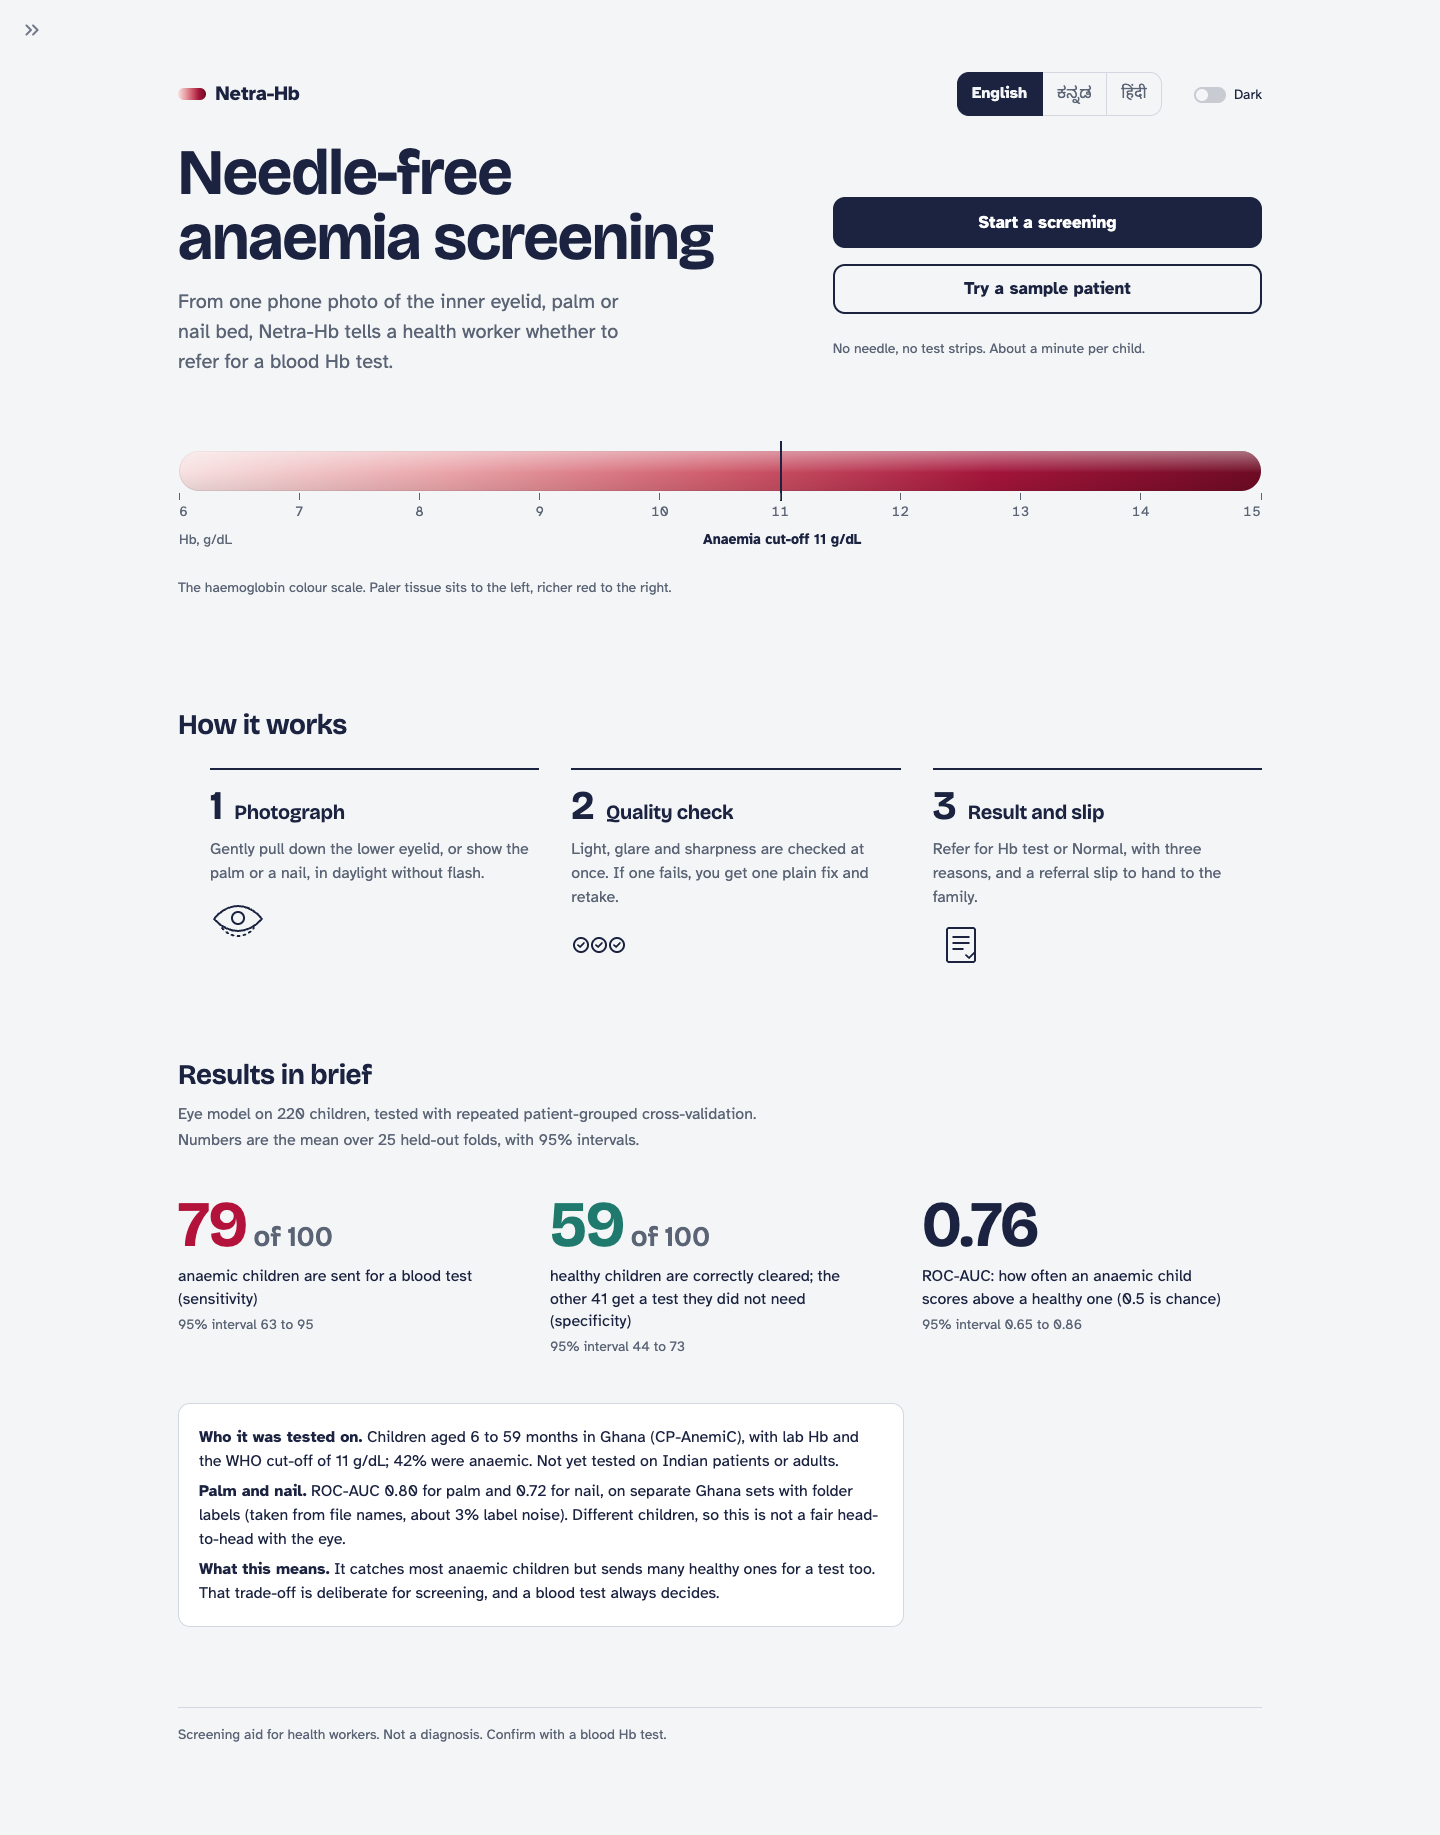
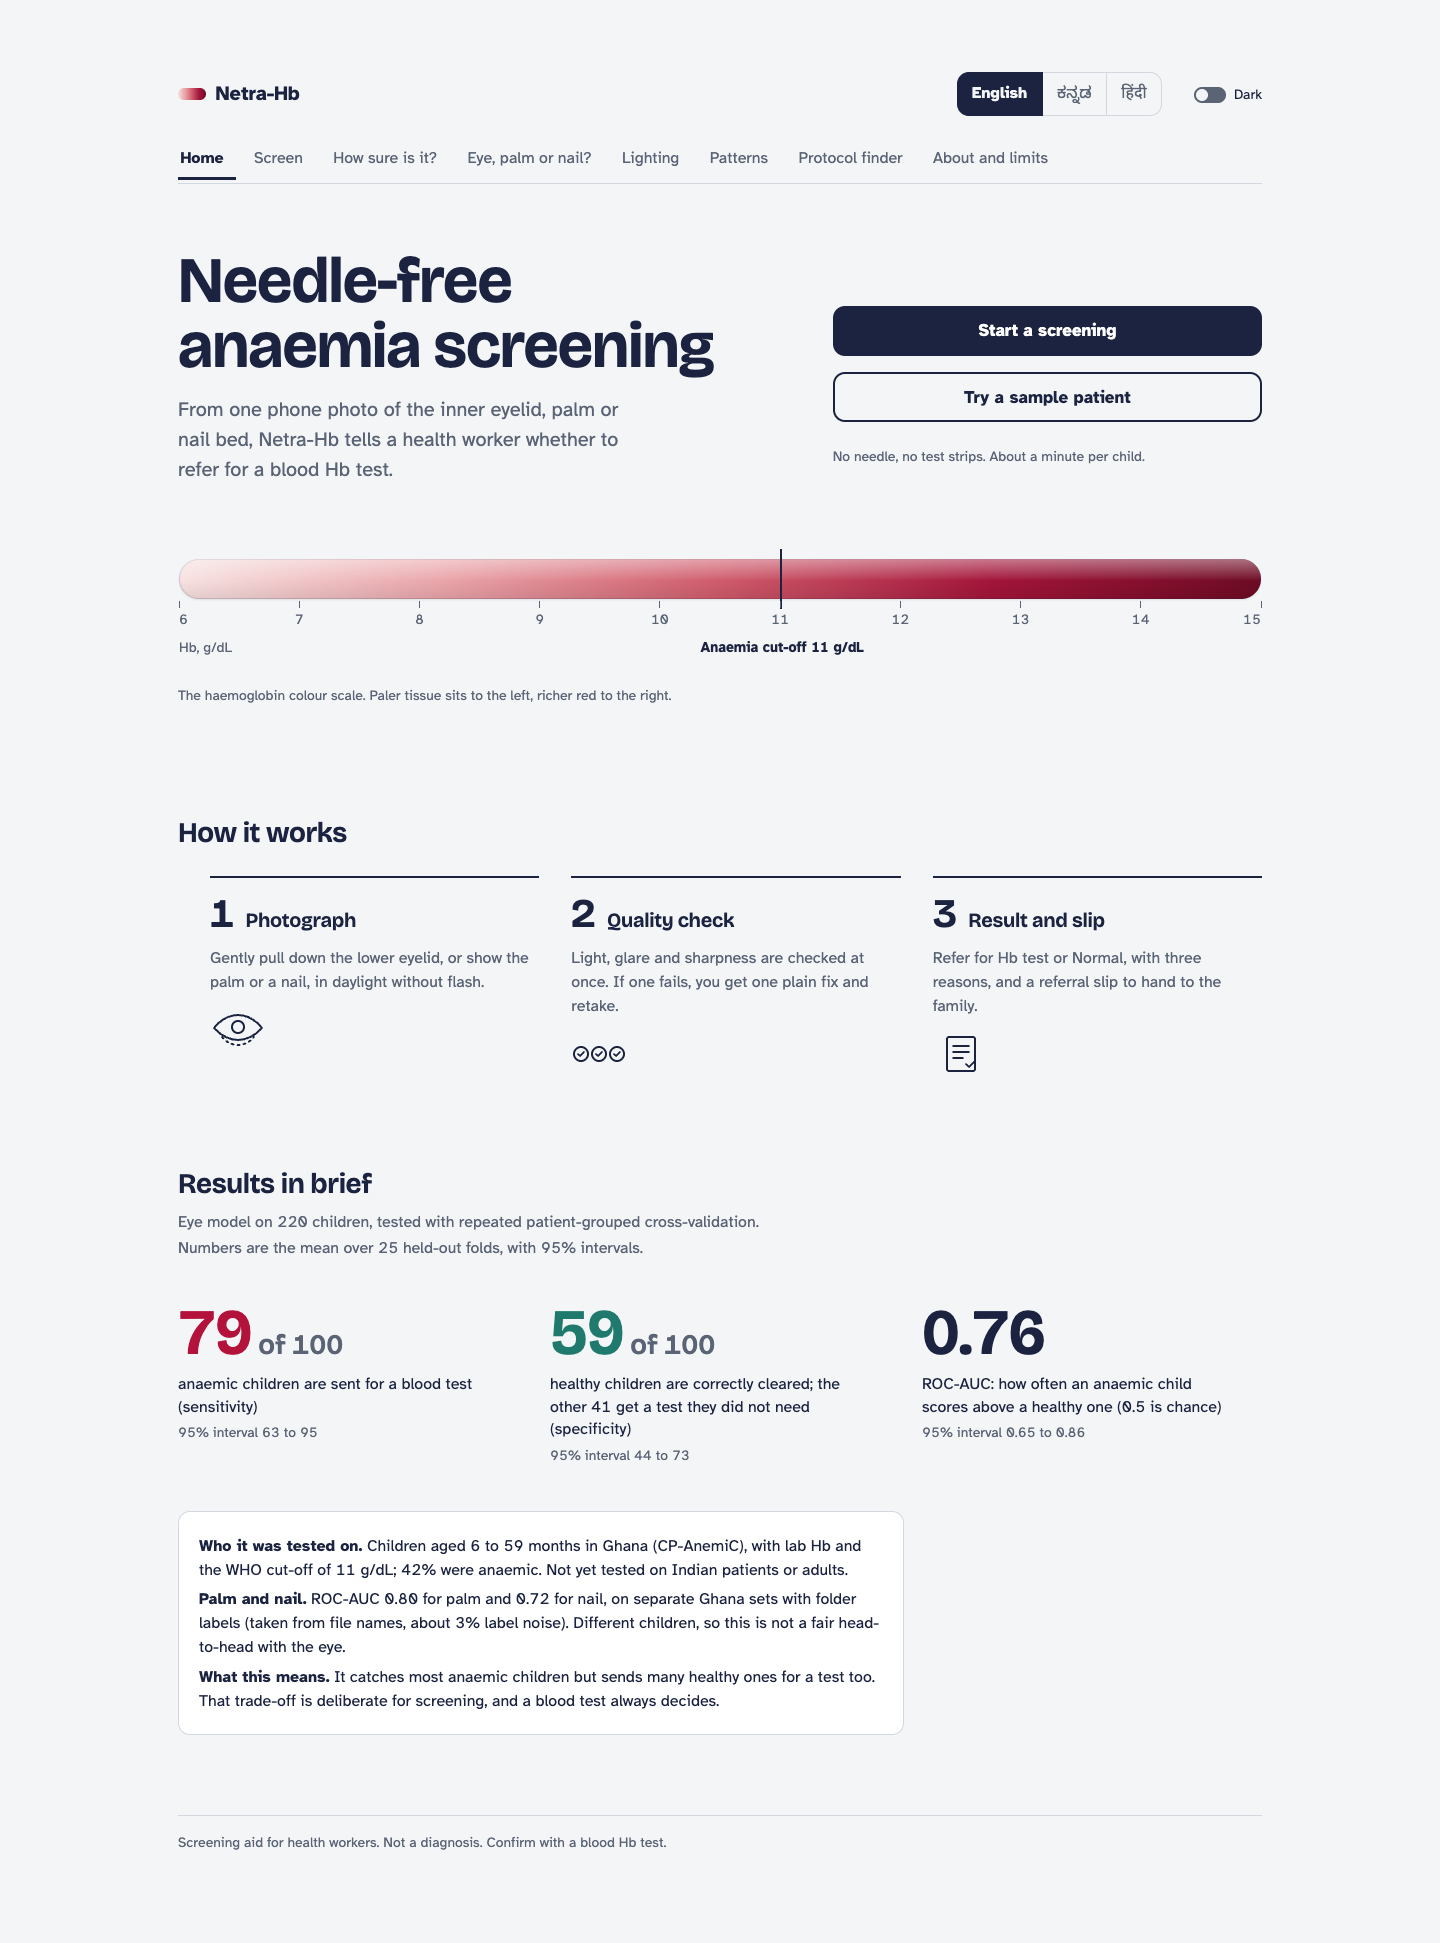
P10a UI review fixes: top nav, no sidebar, light default
- Slim top nav bar with the spec's page names (ui.PAGES), current page underlined;
  Streamlit sidebar, collapse control and default navigation hidden
- Stub pages for the remaining spec pages so every nav link works
- Light mode is the default; toggle track and strip edge contrast fixed
- tabular-nums everywhere, codeFont set to Atkinson so nothing falls back to monospace

diff --git a/app/style.css b/app/style.css
@@ -54,7 +54,11 @@ html, body, .stApp, [data-testid="stAppViewContainer"] {
   background: var(--bg);
   color: var(--text);
   font-family: var(--font-body);
+  font-variant-numeric: tabular-nums;
 }
+
+/* No monospace anywhere */
+.stApp code, .stApp pre, .stApp kbd, .stApp samp, .stApp tt { font-family: var(--font-body) !important; }
 
 .stApp p, .stApp li, .stApp label, .stApp button {
   font-family: var(--font-body);
@@ -144,12 +148,41 @@ button:focus-visible, a:focus-visible, input:focus-visible {
   font-weight: 700;
 }
 [data-testid="stCheckbox"] label, .stToggle label { min-height: 44px; align-items: center; }
+/* Toggle track: slate when off, ink (or light text in dark mode) when on; both clear 3:1 against the page */
+.stApp [data-testid="stCheckbox"] label > div:not([data-testid]) { background: var(--muted) !important; }
+.stApp [data-testid="stCheckbox"] label > div:not([data-testid]) > div { background: var(--bg) !important; }
+.stApp [data-testid="stCheckbox"] label:has(input:checked) > div:not([data-testid]) { background: var(--text) !important; }
 .stApp [data-testid="stWidgetLabel"] p, .stApp label p { color: var(--text); }
 
-/* Sidebar */
-[data-testid="stSidebar"] { background: color-mix(in srgb, var(--bg) 92%, var(--text)); }
-[data-testid="stSidebarNav"] a { min-height: 44px; }
-[data-testid="stSidebarNav"] span { color: var(--text); }
+/* No Streamlit sidebar: navigation is the top nav bar and in-page buttons */
+[data-testid="stSidebar"], [data-testid="stSidebarCollapsedControl"], [data-testid="stExpandSidebarButton"],
+[data-testid="stSidebarNav"], [data-testid="stSidebarCollapseButton"] { display: none !important; }
+
+/* Top nav bar */
+.st-key-nh_nav {
+  border-bottom: 1px solid var(--line);
+  margin: 0.25rem 0 2.5rem;
+  overflow-x: auto;
+  scrollbar-width: none;
+}
+.st-key-nh_nav::-webkit-scrollbar { display: none; }
+.st-key-nh_nav { align-items: stretch; height: auto !important; min-height: 44px; padding-top: 0 !important; }
+.stApp .st-key-nh_nav [data-testid="stElementContainer"] { margin: 0 !important; }
+.stApp .st-key-nh_nav [data-testid="stPageLink"], .stApp .st-key-nh_nav [data-testid="stPageLink"] > div { flex: none; height: 44px; display: flex; margin: 0 !important; padding: 0 !important; }
+.st-key-nh_nav [data-testid="stPageLink"] a { height: 44px; box-sizing: border-box; }
+.stApp .st-key-nh_nav [data-testid="stPageLink"] a {
+  min-height: 44px;
+  padding: 0 0.15rem;
+  margin: 0 0.6rem 0 0;
+  border-radius: 0;
+  border: 0 !important;
+  box-shadow: inset 0 -3px 0 transparent;
+  background: transparent !important;
+  color: var(--muted);
+  font-weight: 400;
+}
+.stApp .st-key-nh_nav [data-testid="stPageLink"] a * { color: inherit !important; font-weight: inherit; font-size: var(--fs-16); }
+.stApp .st-key-nh_nav [data-testid="stPageLink"] a:hover { color: var(--text); box-shadow: inset 0 -3px 0 var(--line); }
 
 /* ---- Netra-Hb blocks ---- */
 .nh-brand {

diff --git a/app/ui.py b/app/ui.py
@@ -31,8 +31,29 @@ BODY_FONT = "Atkinson Hyperlegible, Noto Sans Kannada, Noto Sans Devanagari, san
 
 LANGS = {"en": "English", "kn": "ಕನ್ನಡ", "hi": "हिंदी"}
 
+# (script, nav label key, URL path) in the order of docs/ui_spec.md
+PAGES = [
+    ("Home.py", "nav_home", ""),
+    ("pages/1_Screen.py", "nav_screen", "Screen"),
+    ("pages/2_How_sure.py", "nav_how_sure", "How_sure"),
+    ("pages/3_Sites.py", "nav_sites", "Sites"),
+    ("pages/4_Lighting.py", "nav_lighting", "Lighting"),
+    ("pages/5_Patterns.py", "nav_patterns", "Patterns"),
+    ("pages/6_Protocol_finder.py", "nav_protocol", "Protocol_finder"),
+    ("pages/7_About.py", "nav_about", "About"),
+]
+
 # Screening-flow strings in all three languages. Science-page strings may be English only: t() falls back to "en".
 STRINGS: dict[str, dict[str, str]] = {
+    "nav_home": {"en": "Home", "kn": "ಮುಖಪುಟ", "hi": "होम"},
+    "nav_screen": {"en": "Screen", "kn": "ತಪಾಸಣೆ", "hi": "जाँच"},
+    "nav_how_sure": {"en": "How sure is it?"},
+    "nav_sites": {"en": "Eye, palm or nail?"},
+    "nav_lighting": {"en": "Lighting"},
+    "nav_patterns": {"en": "Patterns"},
+    "nav_protocol": {"en": "Protocol finder"},
+    "nav_about": {"en": "About and limits"},
+    "nav_label": {"en": "Pages", "kn": "ಪುಟಗಳು", "hi": "पेज"},
     "dark": {"en": "Dark", "kn": "ಡಾರ್ಕ್", "hi": "डार्क"},
     "language": {"en": "Language", "kn": "ಭಾಷೆ", "hi": "भाषा"},
     "hero_title": {"en": "Needle-free anaemia screening", "kn": "ಸೂಜಿ ಇಲ್ಲದೆ ರಕ್ತಹೀನತೆ ತಪಾಸಣೆ",
@@ -111,6 +132,7 @@ STRINGS: dict[str, dict[str, str]] = {
     "no_photo": {"en": "No photo yet. Take one or pick a sample patient.",
                  "kn": "ಇನ್ನೂ ಫೋಟೋ ಇಲ್ಲ. ಒಂದನ್ನು ತೆಗೆಯಿರಿ ಅಥವಾ ಮಾದರಿ ರೋಗಿಯನ್ನು ಆರಿಸಿ.",
                  "hi": "अभी कोई फ़ोटो नहीं। एक फ़ोटो लें या नमूना मरीज़ चुनें।"},
+    "page_building": {"en": "This page is being built. Start a screening from Home in the meantime."},
     "screen_title": {"en": "Screen a patient", "kn": "ರೋಗಿಯ ತಪಾಸಣೆ", "hi": "मरीज़ की जाँच"},
     "slip_button": {"en": "Download referral slip", "kn": "ಶಿಫಾರಸು ಚೀಟಿ ಡೌನ್ಲೋಡ್ ಮಾಡಿ",
                     "hi": "रेफ़रल पर्ची डाउनलोड करें"},
@@ -168,14 +190,16 @@ def inject_css() -> None:
     st.html(f"<style>{css}</style>")
 
 
-def setup_page(title: str) -> None:
+def setup_page(title: str, script: str) -> None:
+    """script is this page's entry in PAGES, e.g. "pages/1_Screen.py"; it marks the current nav item."""
     st.set_page_config(page_title=f"{title} | Netra-Hb", page_icon=":material/opacity:", layout="wide",
                        initial_sidebar_state="collapsed")
-    st.session_state.setdefault("dark", st.context.theme.type == "dark")
+    st.session_state.setdefault("dark", False)  # light by default: the exhibition hall is bright
     st.session_state.setdefault("lang", "en")
     inject_css()
     pio.templates.default = "netra_dark" if is_dark() else "netra"
     header()
+    nav(script)
 
 
 def header() -> None:
@@ -187,6 +211,16 @@ def header() -> None:
             st.segmented_control(t("language"), list(LANGS), format_func=LANGS.get, key="lang", required=True,
                                  label_visibility="collapsed", persist_state="session")
             st.toggle(t("dark"), key="dark", persist_state="session")
+
+
+def nav(current: str) -> None:
+    path = next(p for s, _, p in PAGES if s == current)
+    sels = [f'a[href="{path}"]', f'a[href$="/{path}"]'] if path else ['a[href=""]', 'a[href="/"]']
+    sel = ", ".join(f'.stApp .st-key-nh_nav [data-testid="stPageLink"] {s}' for s in sels)
+    st.html(f'<style>{sel} {{ color: var(--text); box-shadow: inset 0 -3px 0 var(--text); font-weight: 700; }}</style>')
+    with st.container(horizontal=True, wrap=False, gap="small", key="nh_nav"):
+        for script, key, _ in PAGES:
+            st.page_link(script, label=t(key))
 
 
 def footer() -> None:
@@ -226,7 +260,8 @@ _STRIP_HTML = """<!doctype html><html><head><meta charset="utf-8">
 :root { --text: __TEXT__; --muted: __MUTED__; --bg: __BG__; }
 * { box-sizing: border-box; }
 html, body { margin: 0; padding: 0; background: transparent; color: var(--text);
-  font-family: "Atkinson Hyperlegible", "Noto Sans Kannada", "Noto Sans Devanagari", sans-serif; }
+  font-family: "Atkinson Hyperlegible", "Noto Sans Kannada", "Noto Sans Devanagari", sans-serif;
+  font-variant-numeric: tabular-nums; }
 .wrap { display: flex; align-items: flex-end; gap: 20px; padding: 4px 1px 0; }
 .photo { position: relative; flex: none; width: var(--pw); }
 .photo img { display: block; width: 100%; aspect-ratio: 1; object-fit: cover; border-radius: 12px; }
@@ -234,7 +269,7 @@ html, body { margin: 0; padding: 0; background: transparent; color: var(--text);
   border: 2px solid #fff; box-shadow: 0 0 0 1px rgba(27,35,64,.5); }
 .scale { position: relative; flex: 1; min-width: 0; padding-top: var(--top); }
 .bar { position: relative; height: var(--bh); border-radius: 999px; background: linear-gradient(90deg, __STOPS__);
-  box-shadow: inset 0 0 0 1px rgba(27,35,64,.08); overflow: hidden; }
+  box-shadow: inset 0 0 0 1px rgba(27,35,64,.16), 0 1px 2px rgba(27,35,64,.10); overflow: hidden; }
 .bar::after { content: ""; position: absolute; inset: 0; border-radius: inherit;
   background: linear-gradient(180deg, rgba(255,255,255,.42) 0%, rgba(255,255,255,.08) 46%, rgba(0,0,0,0) 54%, rgba(0,0,0,.08) 100%); }
 .cut { position: absolute; top: calc(var(--top) - 10px); height: calc(var(--bh) + 20px); width: 0;
@@ -244,7 +279,7 @@ html, body { margin: 0; padding: 0; background: transparent; color: var(--text);
 .ticks { position: relative; height: 30px; margin-top: 2px; }
 .tick { position: absolute; top: 0; width: 0; display: flex; flex-direction: column; align-items: center; }
 .tick i { display: block; width: 1px; height: 7px; background: var(--muted); }
-.tick b { white-space: nowrap; font-weight: 400; font-size: 14px; color: var(--muted); margin-top: 3px; font-variant-numeric: tabular-nums; }
+.tick b { white-space: nowrap; font-weight: 400; font-size: 14px; color: var(--muted); margin-top: 3px; }
 .unit { position: absolute; left: 0; top: calc(var(--top) + var(--bh) + 40px); font-size: 14px; color: var(--muted); }
 .tick.first b { transform: translateX(50%); }
 .tick.last b { transform: translateX(-50%); }

diff --git a/app/pages/2_How_sure.py b/app/pages/2_How_sure.py
@@ -1,0 +1,7 @@
+import ui
+
+ui.setup_page("How sure is it?", "pages/2_How_sure.py")
+
+ui.section("How sure is it?", "Pick a model and drag the threshold to see, out of 100 children, how many are caught, missed, or sent for a test they did not need.")
+ui.empty_state("page_building")
+ui.footer()

diff --git a/app/pages/3_Sites.py b/app/pages/3_Sites.py
@@ -1,0 +1,7 @@
+import ui
+
+ui.setup_page("Eye, palm or nail?", "pages/3_Sites.py")
+
+ui.section("Eye, palm or nail?", "The three body sites compared, including the equal-sample comparison, learning curves and the experimental palm and nail fusion.")
+ui.empty_state("page_building")
+ui.footer()

diff --git a/app/pages/7_About.py b/app/pages/7_About.py
@@ -1,0 +1,7 @@
+import ui
+
+ui.setup_page("About and limits", "pages/7_About.py")
+
+ui.section("About and limits", "Data sources, label noise, what the results do and do not show, and why this is a screening aid, not a diagnosis.")
+ui.empty_state("page_building")
+ui.footer()

diff --git a/app/pages/4_Lighting.py b/app/pages/4_Lighting.py
@@ -1,0 +1,7 @@
+import ui
+
+ui.setup_page("Lighting", "pages/4_Lighting.py")
+
+ui.section("Lighting", "The same photo with raw and grey-world-corrected colour, and why correction erases the redness the model needs.")
+ui.empty_state("page_building")
+ui.footer()

diff --git a/app/pages/1_Screen.py b/app/pages/1_Screen.py
@@ -4,7 +4,7 @@ import streamlit as st
 
 import ui
 
-ui.setup_page("Screen")
+ui.setup_page("Screen", "pages/1_Screen.py")
 
 st.html(f'<h1 class="nh-section-title" style="font-size:var(--fs-40)">{html.escape(ui.t("screen_title"))}</h1>')
 ui.spacer(small=True)

diff --git a/app/pages/6_Protocol_finder.py b/app/pages/6_Protocol_finder.py
@@ -1,0 +1,7 @@
+import ui
+
+ui.setup_page("Protocol finder", "pages/6_Protocol_finder.py")
+
+ui.section("Protocol finder", "How each search algorithm finds the cheapest screening protocol, step by step.")
+ui.empty_state("page_building")
+ui.footer()

diff --git a/app/pages/5_Patterns.py b/app/pages/5_Patterns.py
@@ -1,0 +1,7 @@
+import ui
+
+ui.setup_page("Patterns", "pages/5_Patterns.py")
+
+ui.section("Patterns", "K-means pallor clusters, each with its centroid swatch on the Hb strip and its mean Hb.")
+ui.empty_state("page_building")
+ui.footer()

diff --git a/app/Home.py b/app/Home.py
@@ -4,7 +4,7 @@ import streamlit as st
 
 import ui
 
-ui.setup_page("Home")
+ui.setup_page("Home", "Home.py")
 
 STEP_ICONS = {1: "eye", 2: "checks", 3: "slip"}
 
